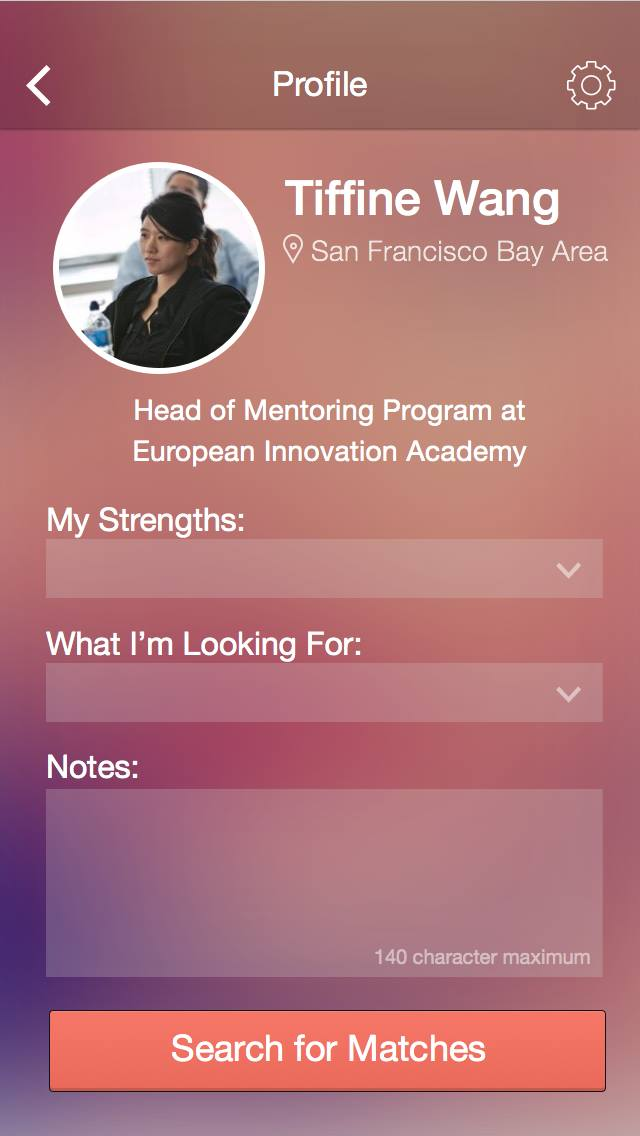
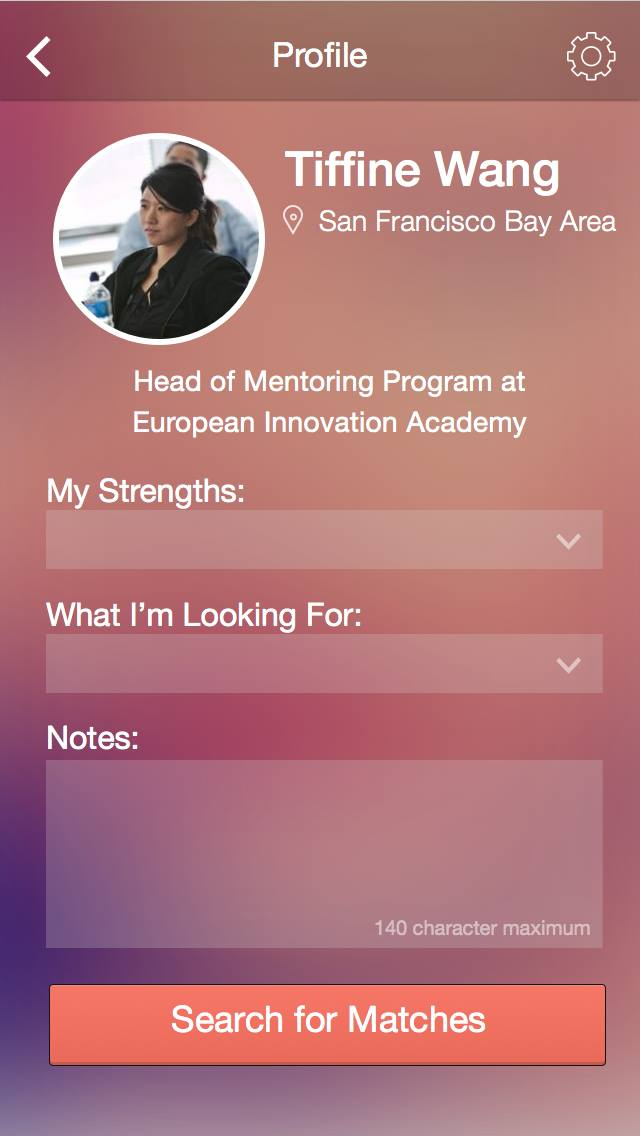
Fixed profile image
testing input fields

Changed region(s): [[0.0, 0.0308, 1.0, 0.7086], [0.0625, 0.8011, 0.9688, 0.9859]]

diff --git a/myproject/www/test.html b/myproject/www/test.html
@@ -1,0 +1,32 @@
+<ion-view title="Test">
+
+
+    <ion-view title="Home" class="test">
+        <!--div class="container">
+            <a href="#/pane">back</a>
+        </div-->
+        <ion-content class="has-header">
+            <div class="list">
+                <label class="item item-input item-floating-label">
+                    <span class="input-label">First Name</span>
+                    <input type="text" placeholder="First Name">
+                </label>
+                <label class="item item-input item-floating-label">
+                    <span class="input-label">Last Name</span>
+                    <input type="text" placeholder="Last Name">
+                </label>
+                <label class="item item-input item-floating-label">
+                    <span class="input-label">Email</span>
+                    <input type="text" placeholder="Email">
+                </label>
+            </div>
+
+        </ion-content>
+
+    </ion-view>
+    <!--div class="item range range-balanced" style="top: 518;">
+            <i class="icon ion-ios7-bolt-outline"></i>
+            <input type="range" name="volume" min="0" max="100" value="38">
+            <i class="icon ion-ios7-bolt"></i>
+          </div-->
+</ion-view>

diff --git a/myproject/www/index.html b/myproject/www/index.html
@@ -271,7 +271,7 @@ angular.module('starter', ['ionic', 'ionic.contrib.ui.cards'])
         ];
         $scope.orderList = 'name';
 
-
+/*
 console.log('In App Controller');
 
   $scope.leftButtons = [{
@@ -280,9 +280,7 @@ console.log('In App Controller');
         $scope.sideMenuController.toggleLeft();
     }
   }];
-
-
-
+  */
 })
 
 
@@ -327,6 +325,13 @@ console.log('In App Controller');
         //abstract: true,
         templateUrl: "meet.html",
         controller: 'CardsCtrl'
+    })
+
+
+  .state('test', {
+        url: '/test',
+        templateUrl: "test.html",
+        controller: 'MatchCtrl'
     })
 
 

diff --git a/myproject/www/css/style.css b/myproject/www/css/style.css
@@ -44,7 +44,7 @@
 .create-profile.pane {
     background: url(../img/ProfileCreation.png);
     background-size: cover;
-    top: -20px;
+
 }
 .create-profile .has-header {
   top: 0px !important;
